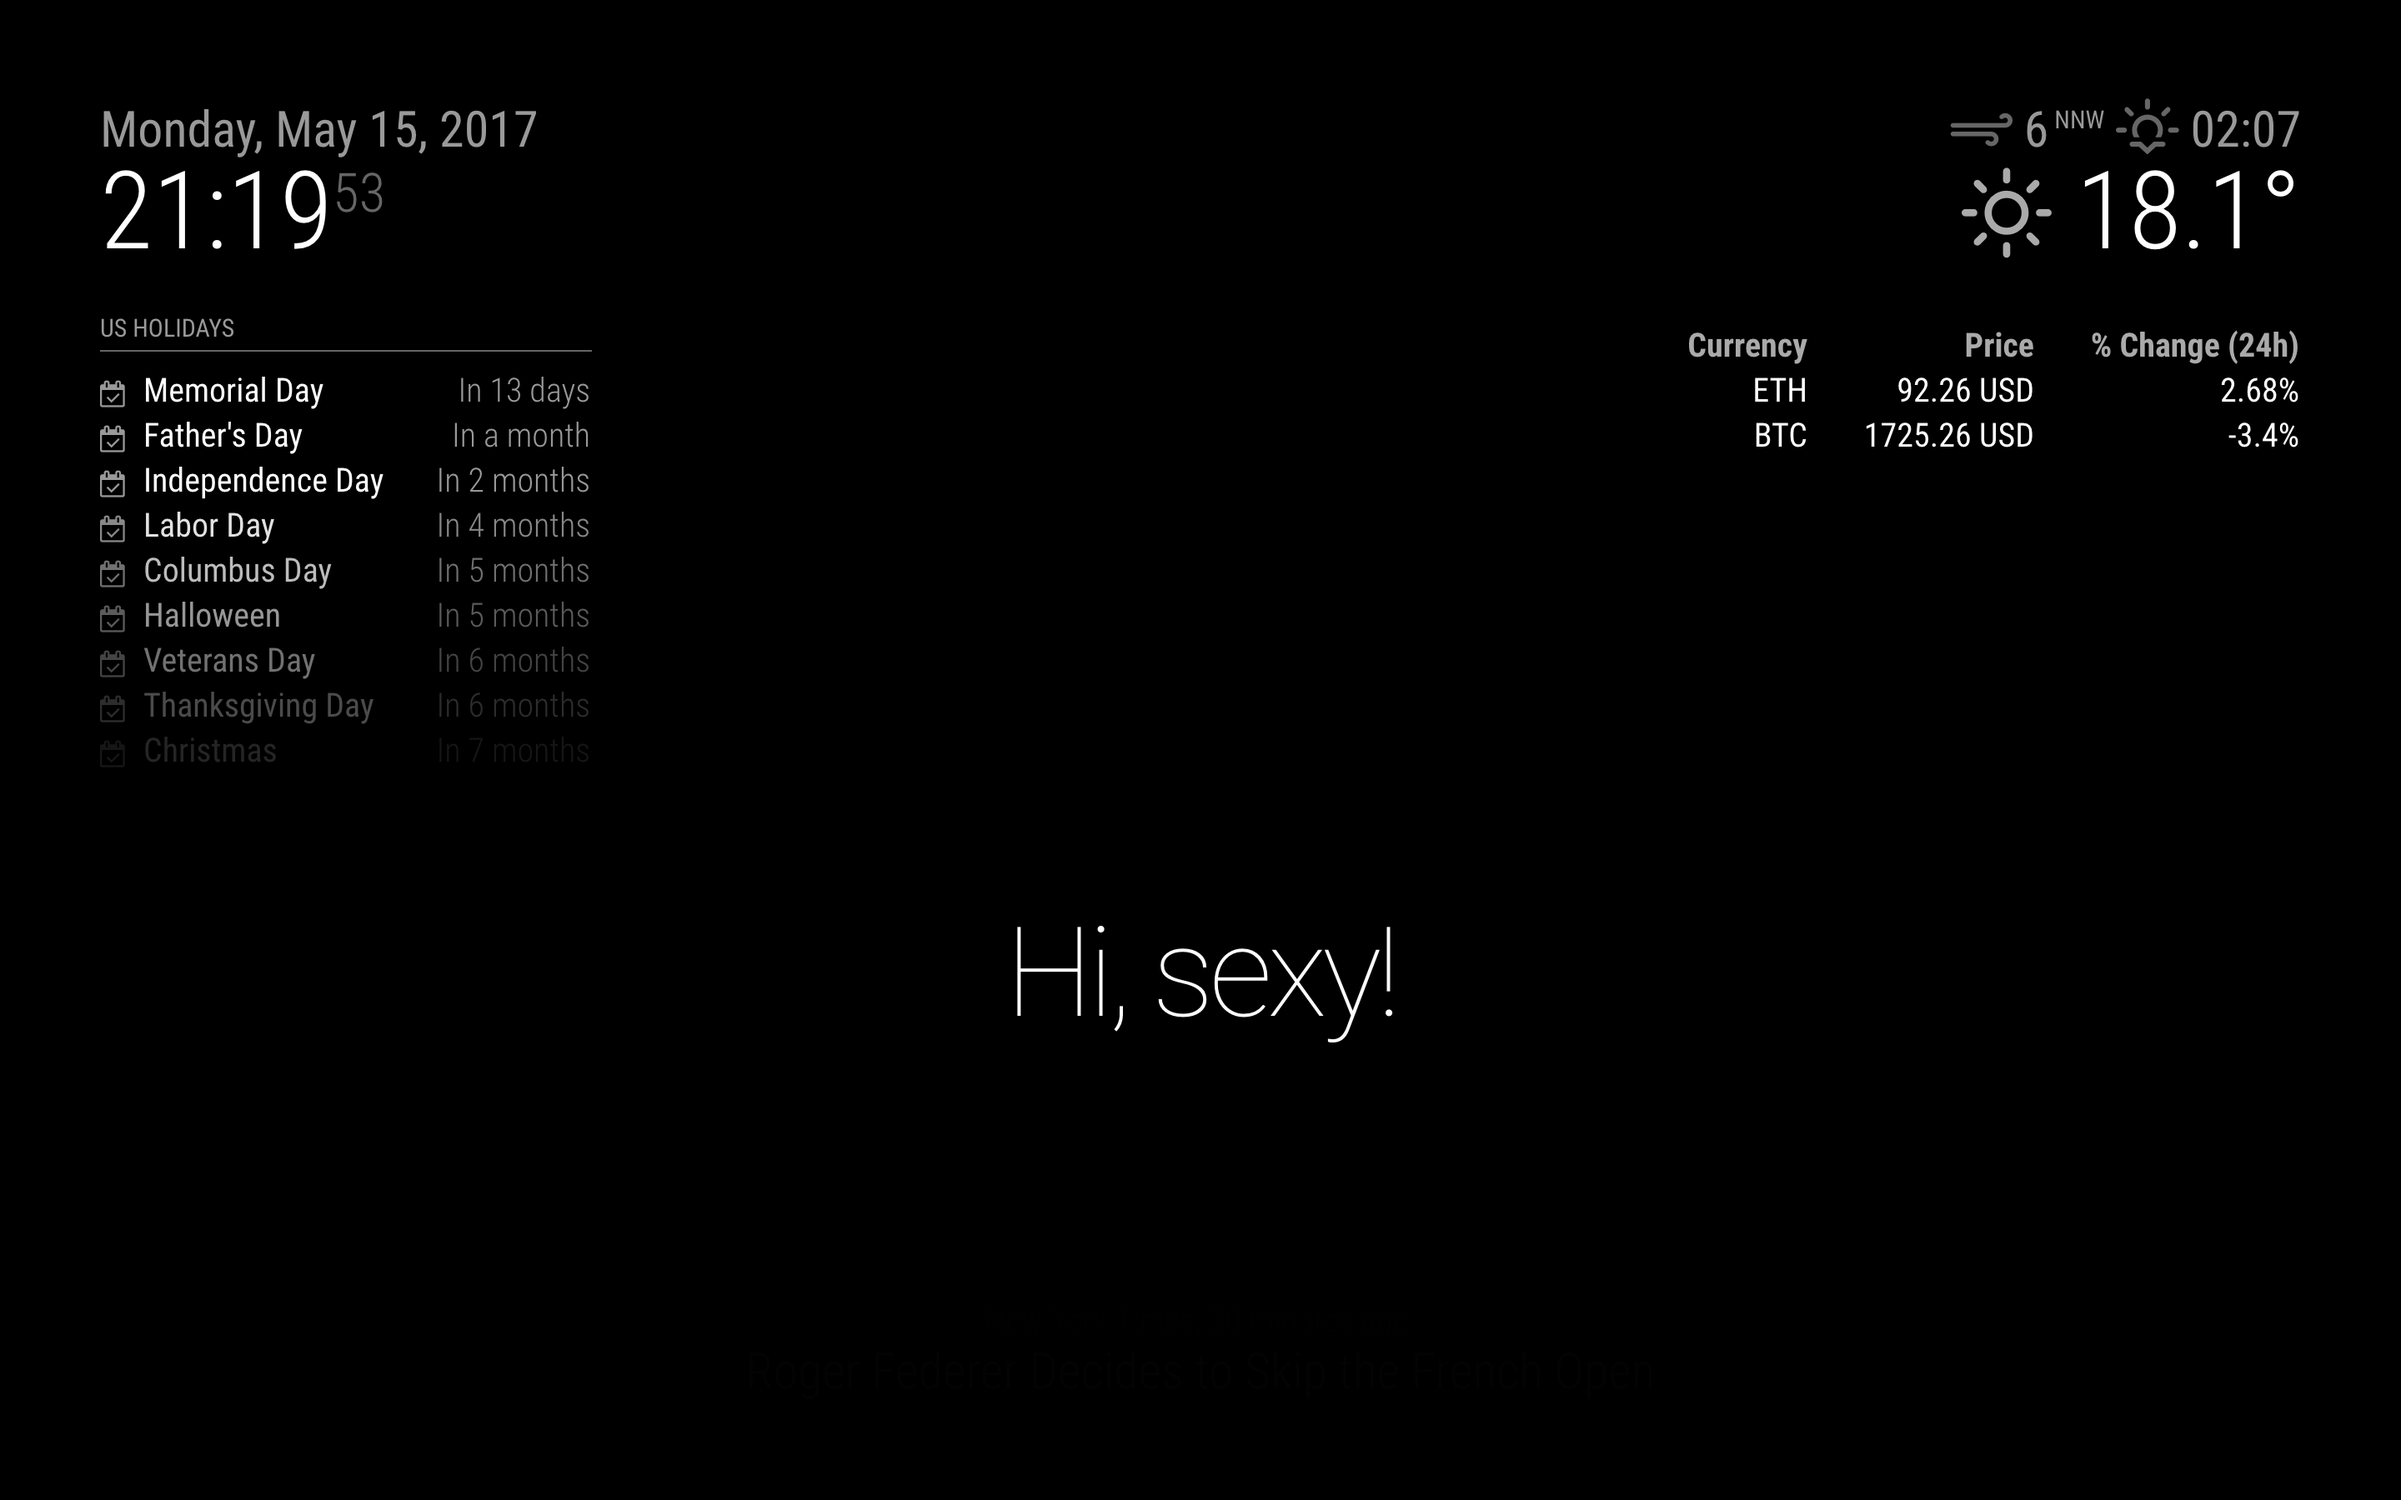
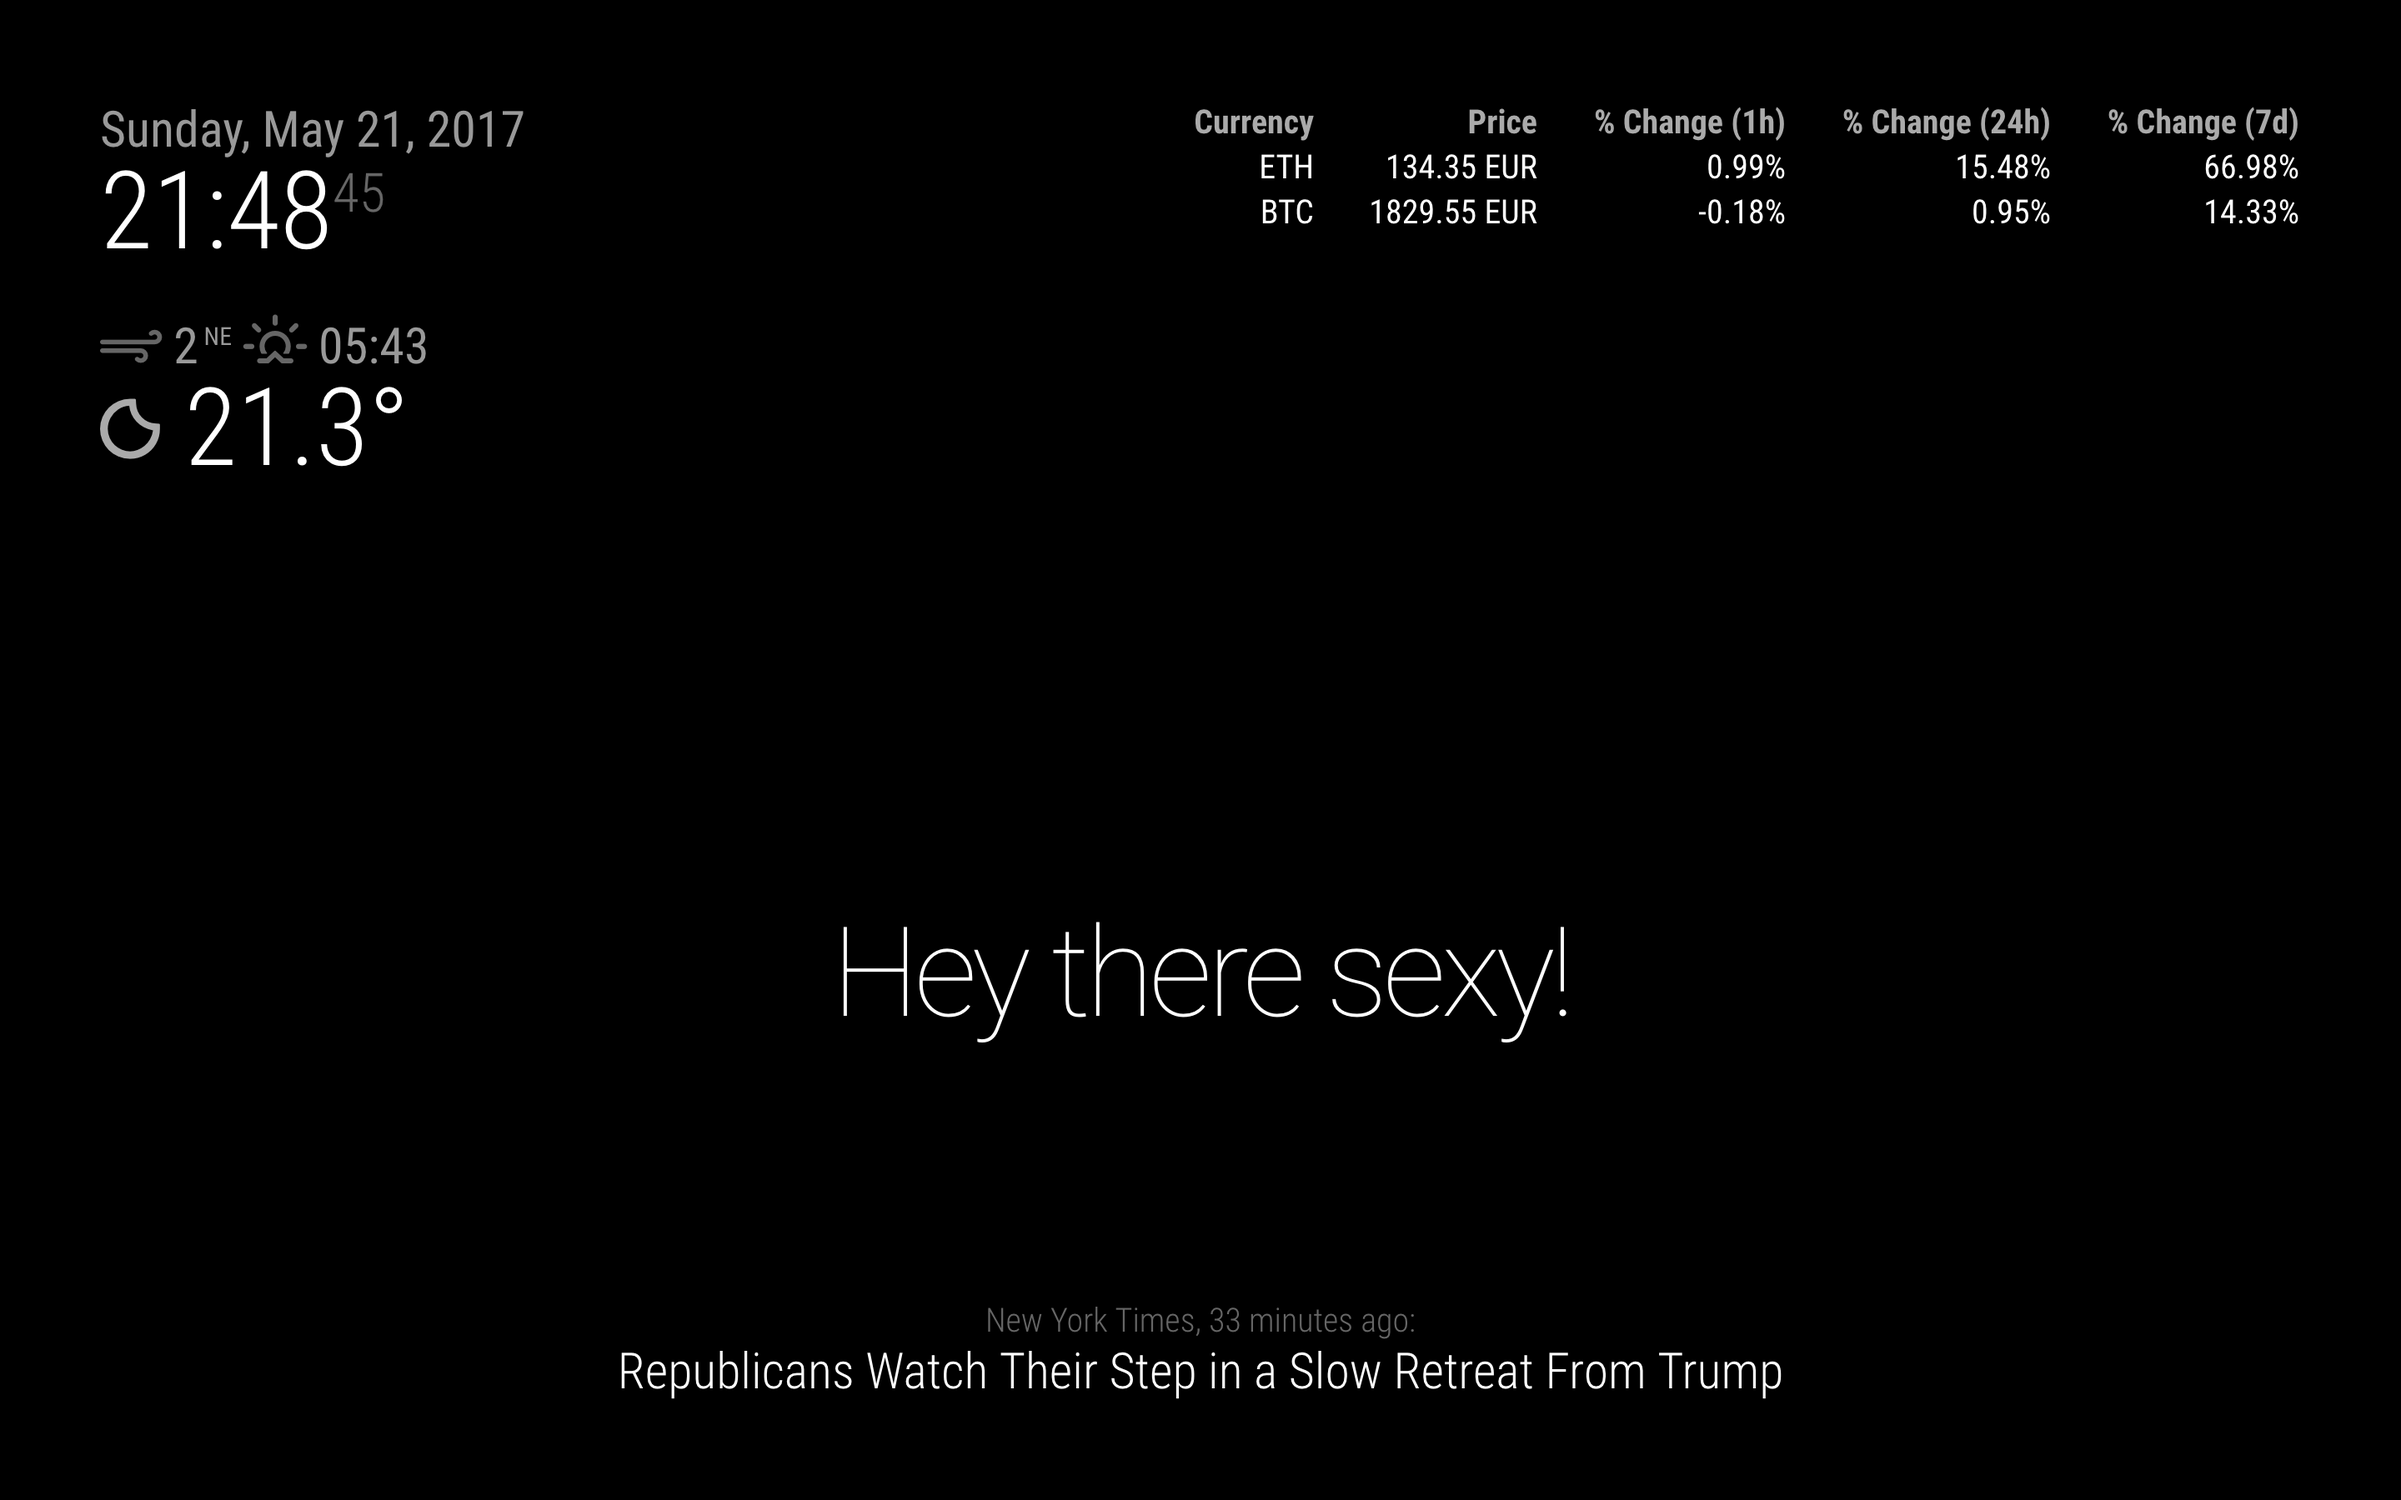
Added optional column with currency change. Added possibility to show change in 1h, 24h, 1d. Edited translations to manage this feature. Refactor.

diff --git a/MMM-cryptocurrency.js b/MMM-cryptocurrency.js
@@ -3,7 +3,8 @@ Module.register("MMM-cryptocurrency", {
     defaults: {
         currency: ['bitcoin'],
         conversion: 'USD',
-        displayLongNames: false
+        displayLongNames: false,
+        headers: ['change1h', 'change24h', 'change7d']
     },
 
     start: function () {
@@ -33,46 +34,56 @@ Module.register("MMM-cryptocurrency", {
     },
 
     getDom: function () {
+        var data = this.result;
+
         var wrapper = document.createElement("table");
         wrapper.className = 'small mmm-cryptocurrency';
-        var data = this.result;
-        var tableHead = document.createElement("tr");
-        tableHead.className = 'header-row';
 
-        var tableHeadValues = [
+        var tableHeader = document.createElement("tr");
+        tableHeader.className = 'header-row';
+
+        var tableHeaderValues = [
             this.translate("CURRENCY"),
-            this.translate('PRICE'),
-            this.translate('CHANGE')
+            this.translate('PRICE')
         ];
+        this.config.headers.includes('change1h') && tableHeaderValues.push(this.translate('CHANGE') + ' (1h)');
+        this.config.headers.includes('change24h') && tableHeaderValues.push(this.translate('CHANGE') + ' (24h)');
+        this.config.headers.includes('change7d') && tableHeaderValues.push(this.translate('CHANGE') + ' (7d)');
 
-        for (var thCounter = 0; thCounter < tableHeadValues.length; thCounter++) {
+        for (var i = 0; i < tableHeaderValues.length; i++) {
             var tableHeadSetup = document.createElement("th");
-            tableHeadSetup.innerHTML = tableHeadValues[thCounter];
-            tableHead.appendChild(tableHeadSetup);
+            tableHeadSetup.innerHTML = tableHeaderValues[i];
+            tableHeader.appendChild(tableHeadSetup);
         }
-        wrapper.appendChild(tableHead);
+        wrapper.appendChild(tableHeader);
 
-        for (var trCounter = 0; trCounter < data.length; trCounter++) {
-            var oneCurrency = data[trCounter];
+        for (var i = 0; i < data.length; i++) {
+            var currentCurrency = data[i];
             var trWrapper = document.createElement("tr");
             trWrapper.className = 'currency';
+
             if (this.config.displayLongNames) {
-                var name = oneCurrency.name;
+                var name = currentCurrency.name;
             } else {
-                name = oneCurrency.symbol;
+                name = currentCurrency.symbol;
             }
+            // Build object key to get proper rounding
             var rightCurrencyFormat = this.config.conversion.toLowerCase();
-            // rounding the price and adds the currency string
-            var formattedPrice = Math.round(oneCurrency['price_'+rightCurrencyFormat] * 100) / 100+' '+this.config.conversion;
-            // add another value to this array to add additional data
+            // Round the price and adds the currency string
+            var formattedPrice = Math.round(currentCurrency['price_'+rightCurrencyFormat] * 100) / 100+' '+this.config.conversion;
+
+            // Build optional headers using lodash
             var tdValues = [
                 name,
-                formattedPrice,
-                oneCurrency.percent_change_24h+'%'
+                formattedPrice
             ];
-            for (var c = 0; c < tdValues.length; c++) {
+            this.config.headers.includes('change24h') && tdValues.push(currentCurrency.percent_change_1h + '%');
+            this.config.headers.includes('change24h') && tdValues.push(currentCurrency.percent_change_24h + '%');
+            this.config.headers.includes('change24h') && tdValues.push(currentCurrency.percent_change_7d + '%');
+
+            for (var j = 0; j < tdValues.length; j++) {
                 var tdWrapper = document.createElement("td");
-                tdWrapper.innerHTML = tdValues[c];
+                tdWrapper.innerHTML = tdValues[j];
                 trWrapper.appendChild(tdWrapper);
             }
             wrapper.appendChild(trWrapper);

diff --git a/README.md b/README.md
@@ -14,7 +14,8 @@ The entry in `config.js` can include the following options:
 |---|---|
 |`currency`|One or more currencies you want to display.<br>**Type:** `array`<br>**Default:** <i>['bitcoin']</i>|
 |`conversion`|The currency used to convert crypto currency value.<br>**Type:** One of the following: `AUD, BRL, CAD, CHF, CNY, EUR, GBP, HKD, IDR, INR, JPY, KRW, MXN, RUB`<br>**Default:** <i>USD</i>|
-|`displayLongNames`| Option that show full name of the currecny or the shortest version. (eg. Bitcoin/BTC ). <br> **Type** `boolean` <br> **Default** <i>false</i> |
+|`displayLongNames`| Option that show full name of the currency or the shortest version. (eg. Bitcoin/BTC ). <br> **Type** `boolean` <br> **Default** <i>false</i> |
+|`headers`| Possibility to show currency change in the last hour, day or week. <br> **Type** One of the following: `change1h, change24h, change7d` <br> **Default** <i>None. All optionals.</i> |
 
 Here is an example of an entry in `config.js`
 ```
@@ -23,7 +24,8 @@ Here is an example of an entry in `config.js`
 	position: "top_right",
 	config: {
 		currency: ['ethereum', 'bitcoin'],
-		conversion: 'USD'
+		conversion: 'USD',
+		headers: ['change24h', 'change1h', 'change7d']
 	}
 }
 ```
